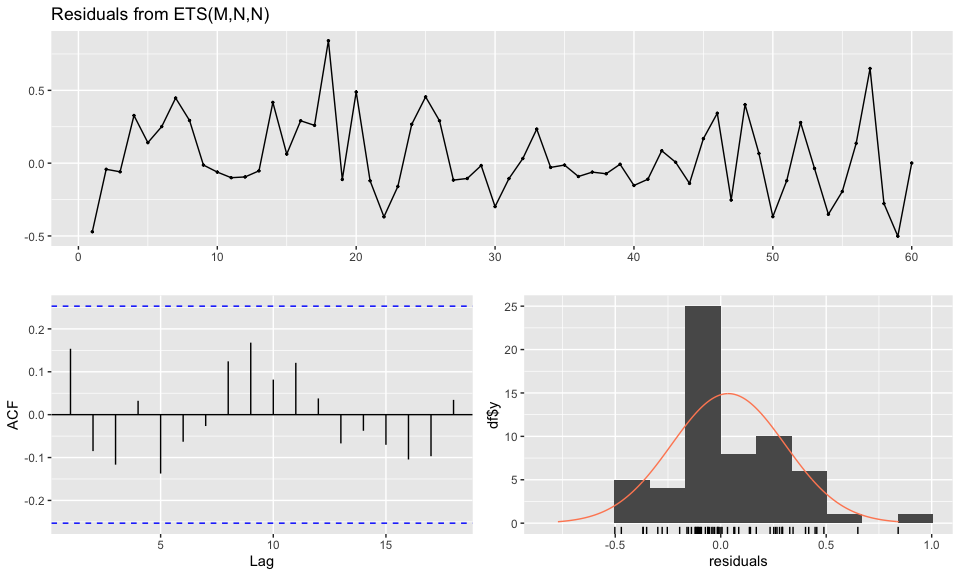
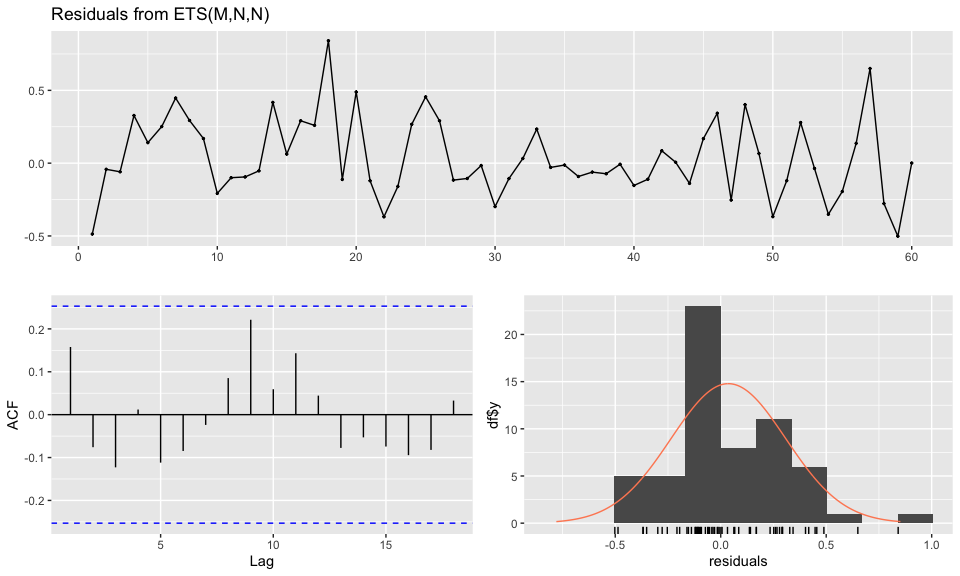
daily update

diff --git a/kenai_sockeye_counts.md b/kenai_sockeye_counts.md
@@ -2,7 +2,7 @@ Kenai River Sockeye Salmon Count Forecasting: Daily Fish Count
 Predictions
 ================
 Joe Hicks
-updated: 2025-07-10
+updated: 2025-07-11
 
 - [Summary](#summary)
 - [Data Loading & Preparation](#data-loading--preparation)
@@ -193,9 +193,9 @@ tidy(ets_model) |>
   kable(caption = "ETS Model Summary")
 ```
 
-| method     |     aic | sigma2 |  loglik |
-|:-----------|--------:|-------:|--------:|
-| ETS(M,N,N) | 1332.46 |   0.08 | -663.23 |
+| method     |     aic | sigma2 | loglik |
+|:-----------|--------:|-------:|-------:|
+| ETS(M,N,N) | 1333.99 |   0.08 |   -664 |
 
 ETS Model Summary
 
@@ -210,7 +210,7 @@ checkresiduals(ets_model)
     ##  Ljung-Box test
     ## 
     ## data:  Residuals from ETS(M,N,N)
-    ## Q* = 8.1686, df = 10, p-value = 0.6124
+    ## Q* = 8.6695, df = 10, p-value = 0.5637
     ## 
     ## Model df: 0.   Total lags used: 10
 
@@ -405,11 +405,11 @@ predicted_peaks_updated |>
 
 | peak_rank | date_2025 | month_day | predicted_count | adjusted_prediction | data_status |
 |---:|:---|:---|---:|---:|:---|
-| 1 | 2025-07-27 | 07-27 | 91783 | 168625 | Future prediction |
-| 2 | 2025-07-21 | 07-21 | 82692 | 151923 | Future prediction |
-| 3 | 2025-07-28 | 07-28 | 81110 | 149017 | Future prediction |
-| 4 | 2025-07-22 | 07-22 | 72706 | 133576 | Future prediction |
-| 5 | 2025-07-29 | 07-29 | 72585 | 133354 | Future prediction |
+| 1 | 2025-07-27 | 07-27 | 91783 | 173845 | Future prediction |
+| 2 | 2025-07-21 | 07-21 | 82692 | 156626 | Future prediction |
+| 3 | 2025-07-28 | 07-28 | 81110 | 153629 | Future prediction |
+| 4 | 2025-07-22 | 07-22 | 72706 | 137711 | Future prediction |
+| 5 | 2025-07-29 | 07-29 | 72585 | 137482 | Future prediction |
 
 Top 5 Predicted Peak Days for 2025
 
@@ -615,8 +615,8 @@ true_accuracy_metrics <- summer_predictions |>
 kable(true_accuracy_metrics)
 ```
 
-| n_observations | mean_abs_error | median_abs_error | mean_pct_error | rmse |
-|---------------:|---------------:|-----------------:|---------------:|-----:|
-|              8 |           7928 |             7969 |           48.3 | 9509 |
+| n_observations | mean_abs_error | median_abs_error | mean_pct_error |  rmse |
+|---------------:|---------------:|-----------------:|---------------:|------:|
+|              9 |           9991 |             8204 |           49.6 | 12584 |
 
 ------------------------------------------------------------------------
